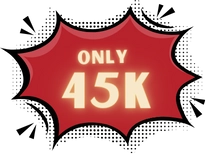
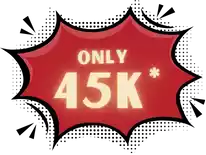
untuk 50 pembeli pertama

diff --git a/src/components/Ticketing/NextMap.jsx b/src/components/Ticketing/NextMap.jsx
@@ -3,11 +3,16 @@ import nextButton from '../../assets/ticketing/nextButton.webp';
 import nextMap from '../../assets/ticketing/nextMap.webp';
 import TicketPageContext from '../../contexts/TicketPageContext';
 
-export default function NextMap({ nextFunction }) {
+export default function NextMap({ nextFunction, showKetentuan }) {
 	const { setPage, page } = useContext(TicketPageContext);
 	return (
 		<div className='absolute bottom-[-40vw] right-[-10vw] h-auto w-full md:bottom-[-25vw] md:w-[60%]'>
 			<div className='relative h-full w-full'>
+				{showKetentuan && (
+					<p className='absolute left-[-7vw] top-[-15vw] -rotate-6 transform text-[#eaffd3] md:fixed md:left-[1vw] md:top-[96%] md:rotate-0 md:text-lg'>
+						*Berlaku untuk 50 pembeli pertama
+					</p>
+				)}
 				<img
 					src={nextMap}
 					alt=''

diff --git a/src/pages/Ticketing/SelectPacket.jsx b/src/pages/Ticketing/SelectPacket.jsx
@@ -181,7 +181,7 @@ export default function SelectPacket() {
 			</div>
 			<img src={ticketDesktopBg} alt='' className='absolute z-[-1] hidden h-full w-full object-cover md:block' />
 			<img src={ticketMobileBg} alt='' className='absolute z-[-1] h-full w-full object-cover md:hidden' />
-			<NextMap nextFunction={handleNext} />
+			<NextMap nextFunction={handleNext} showKetentuan={true} />
 		</div>
 	);
 }
